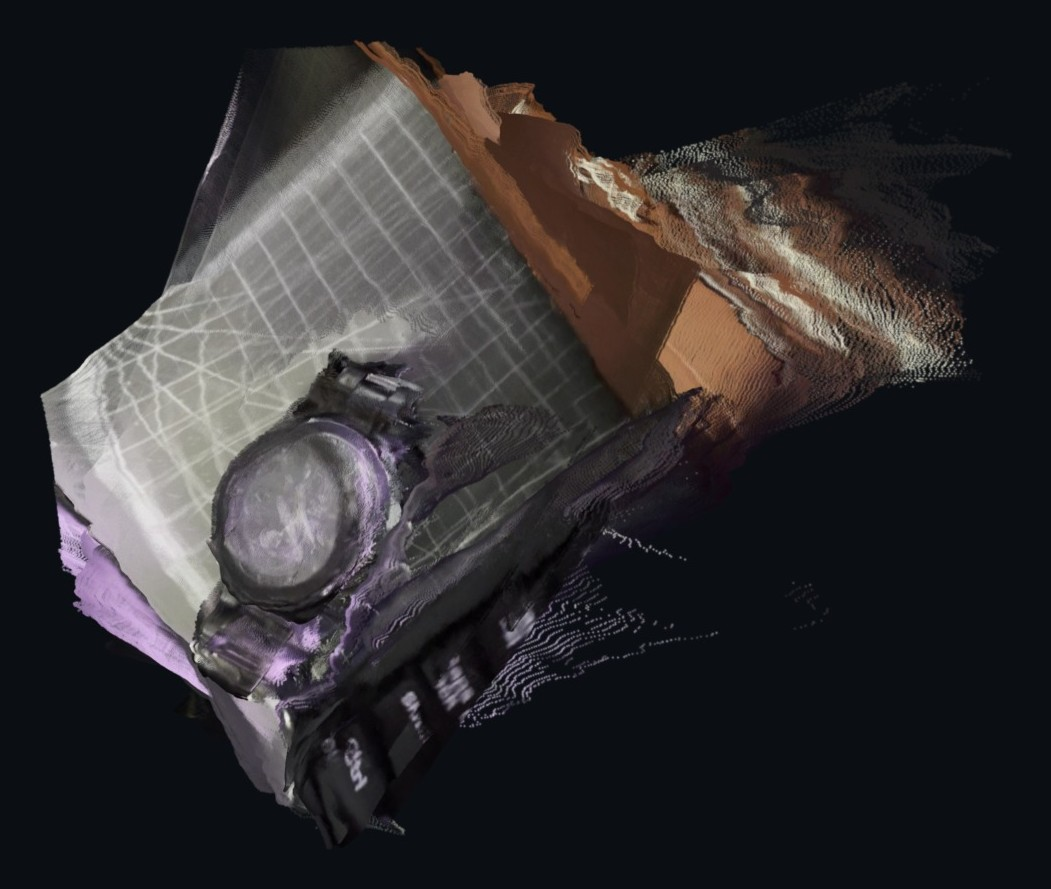
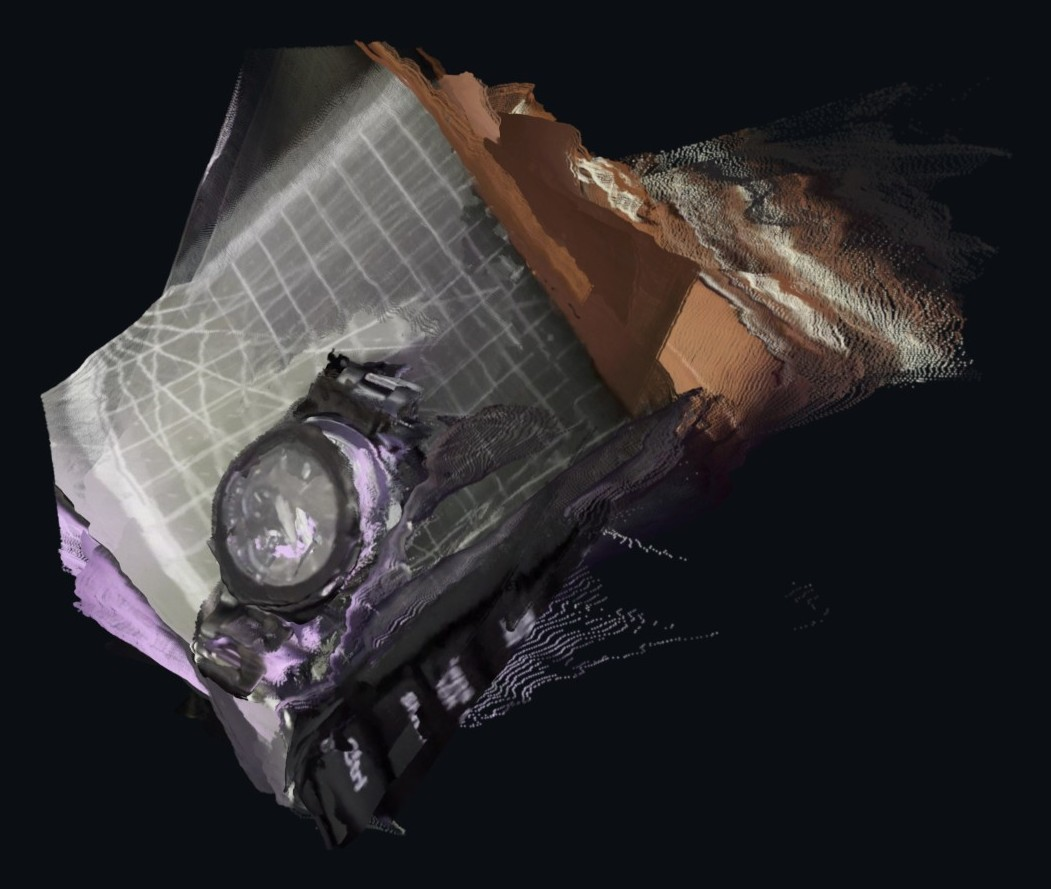
docs: 대표 그림을 배포된 주소에서 찍은 것으로 교체
shots/viewer.jpg 는 https://eple-lab.github.io/3d-viewer/ 를 열어 찍은 화면이다.
그림과 배포본이 같은 것임을 그림 자체로 보이게 하려고 로컬 캡처를 버렸다.

capture_server.py 가 shots/_raw 로 저장하도록 바꿨다. 만든 그림만 커밋하고
원본은 .gitignore 로 뺀다.

diff --git a/scripts/make_figures.py b/scripts/make_figures.py
@@ -54,12 +54,18 @@ def main():
     os.makedirs(SHOTS, exist_ok=True)
 
     # ── 대표 화면 ────────────────────────────────────────────────
-    hero = content_crop(load("h060.jpg"), 40)
+    # live060 은 배포된 주소(https://eple-lab.github.io/3d-viewer/)에서 찍은 것이다.
+    hero = content_crop(load("live060.jpg"), 40)
     hero.thumbnail((1200, 900), Image.LANCZOS)
     hero.save(os.path.join(SHOTS, "viewer.jpg"), quality=90, optimize=True)
     print("viewer.jpg", hero.size)
 
     # ── 앞 / 뒤 비교 ─────────────────────────────────────────────
+    if not (os.path.exists(os.path.join(RAW, "h060.jpg")) and
+            os.path.exists(os.path.join(RAW, "b135.jpg"))):
+        print("coverage.jpg 는 _raw 에 h060/b135 가 있어야 다시 만든다 (건너뜀)")
+        return
+
     # 같은 카메라 거리로 찍었으므로 같은 사각형을 잘라야 자리가 맞는다.
     box = (0.06, 0.03, 0.82, 0.97)
 

diff --git a/scripts/capture_server.py b/scripts/capture_server.py
@@ -16,7 +16,8 @@ import sys
 from http.server import BaseHTTPRequestHandler, ThreadingHTTPServer
 from urllib.parse import parse_qs, urlparse
 
-OUT = os.path.join(os.path.dirname(os.path.dirname(os.path.abspath(__file__))), "shots")
+OUT = os.path.join(os.path.dirname(os.path.dirname(os.path.abspath(__file__))),
+                   "shots", "_raw")
 
 
 class Handler(BaseHTTPRequestHandler):
